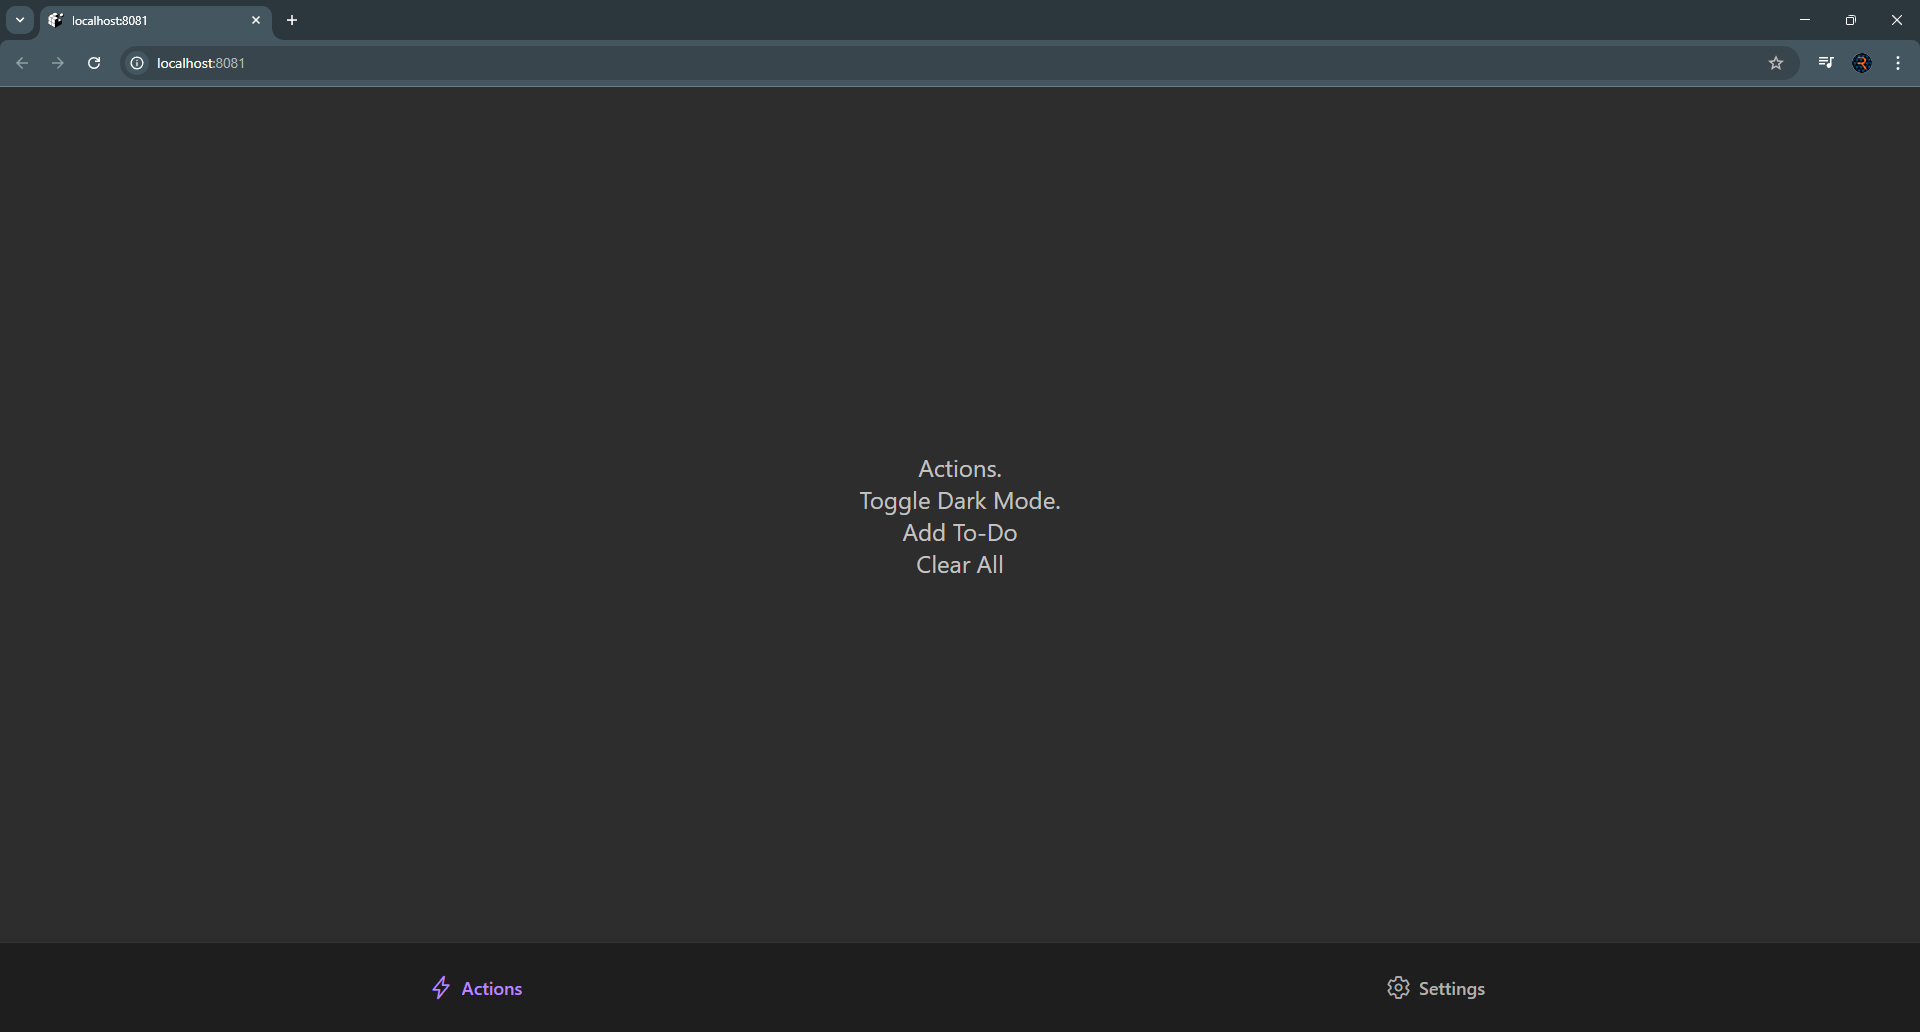
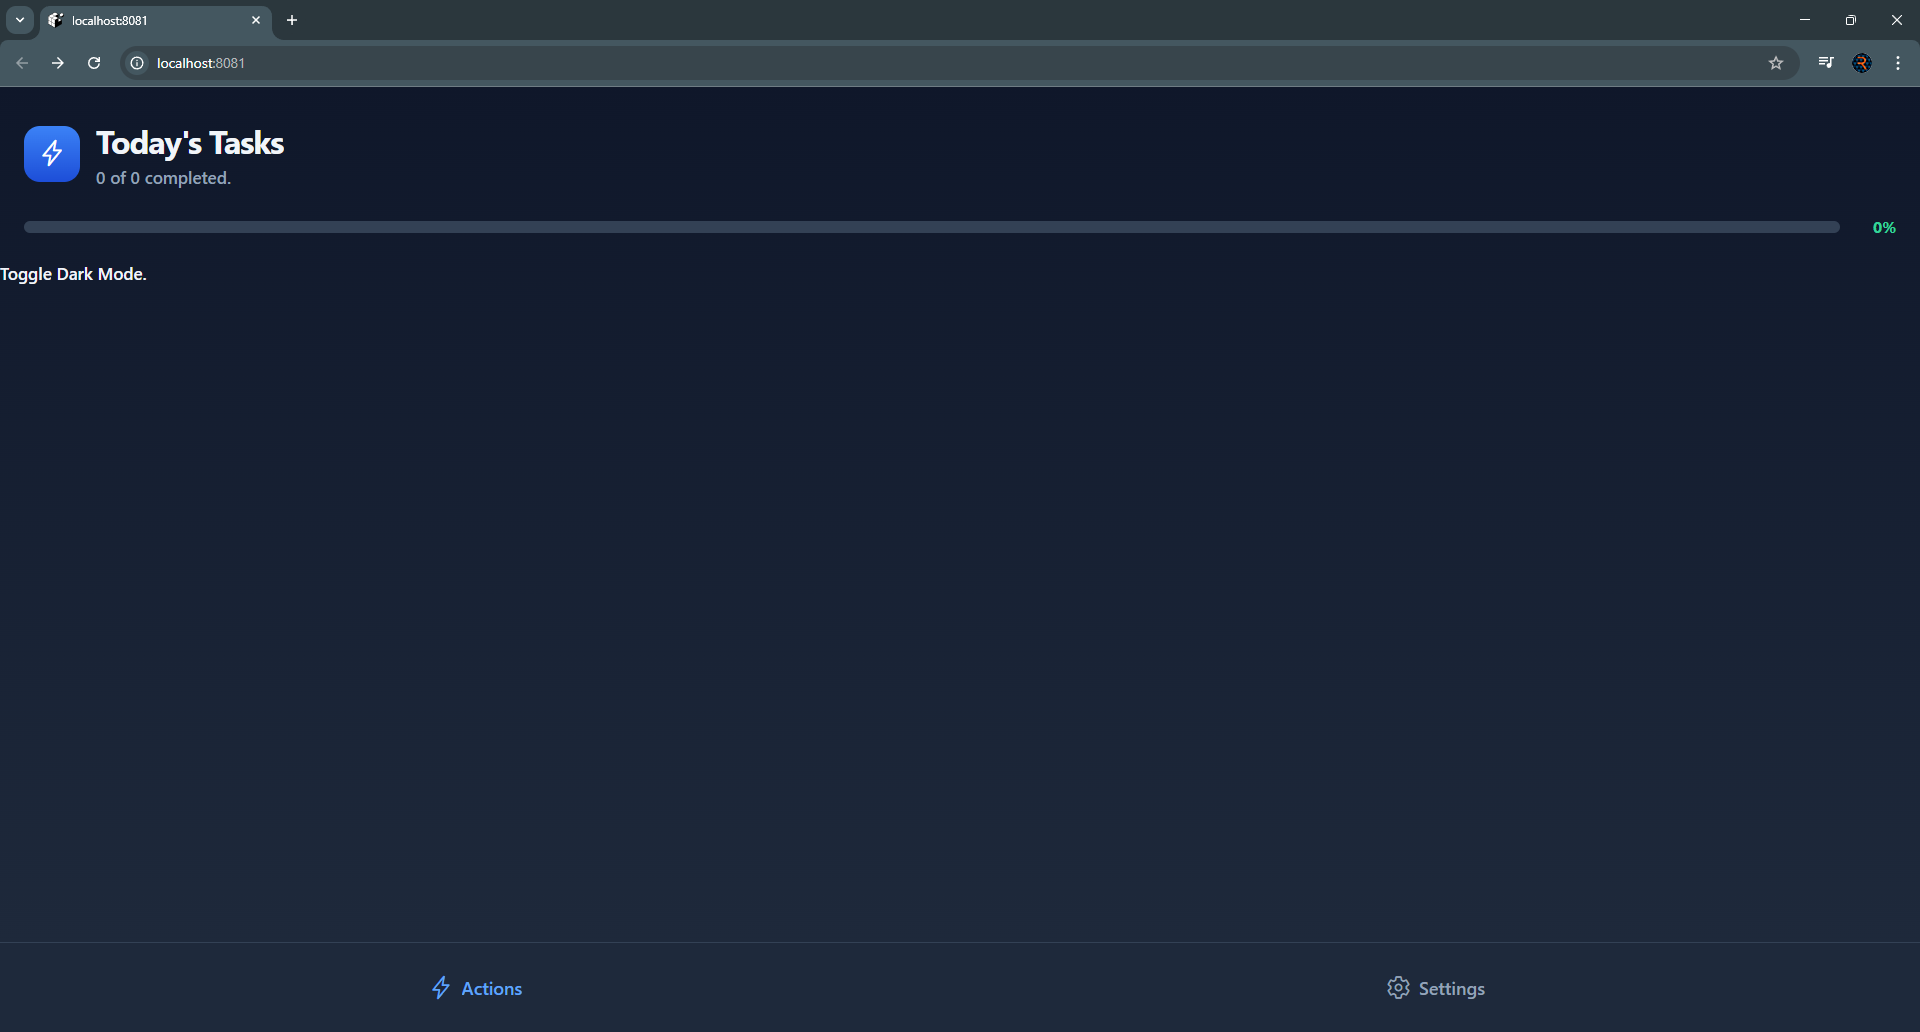
Design header

diff --git a/components/Header.tsx b/components/Header.tsx
@@ -1,0 +1,57 @@
+import { createHomeStyles } from "@/assets/styles/home.style";
+import { api } from "@/convex/_generated/api";
+import useTheme from "@/hooks/useTheme";
+import { Ionicons } from "@expo/vector-icons";
+import { useQuery } from "convex/react";
+import { LinearGradient } from "expo-linear-gradient";
+import { Text, View } from "react-native";
+
+const Header = () => {
+  const { colours } = useTheme();
+  const homeStyles = createHomeStyles(colours);
+  const todos = useQuery(api.todos.getTodos);
+  const completedCount = todos
+    ? todos.filter((todo) => todo.isComplete).length
+    : 0;
+  const totalCount = todos ? todos.length : 0;
+  const progressPercentage =
+    totalCount > 0 ? (completedCount / totalCount) * 100 : 0;
+  return (
+    <View style={homeStyles.header}>
+      <View style={homeStyles.titleContainer}>
+        <LinearGradient
+          colors={colours.gradients.primary}
+          style={homeStyles.iconContainer}
+        >
+          <Ionicons name="flash-outline" size={28} color="#ffffff" />
+        </LinearGradient>
+        <View style={homeStyles.titleTextContainer}>
+          <Text style={homeStyles.title}>Today&apos;s Tasks</Text>
+          <Text style={homeStyles.subtitle}>
+            {completedCount} of {totalCount} completed.
+          </Text>
+        </View>
+      </View>
+      {totalCount > 0 && (
+        <View style={homeStyles.progressContainer}>
+          <View style={homeStyles.progressBarContainer}>
+            <View style={homeStyles.progressBar}>
+              <LinearGradient
+                colors={colours.gradients.success}
+                style={[
+                  homeStyles.progressFill,
+                  { width: `${progressPercentage}%` },
+                ]}
+              />
+            </View>
+            <Text style={homeStyles.progressText}>
+              {Math.round(progressPercentage)}%
+            </Text>
+          </View>
+        </View>
+      )}
+    </View>
+  );
+};
+
+export default Header;

diff --git a/app/(tabs)/index.tsx b/app/(tabs)/index.tsx
@@ -1,4 +1,5 @@
 import { createHomeStyles } from "@/assets/styles/home.style";
+import Header from "@/components/Header";
 import useTheme from "@/hooks/useTheme";
 import { LinearGradient } from "expo-linear-gradient";
 import { StatusBar, Text, TouchableOpacity } from "react-native";
@@ -13,6 +14,7 @@ export default function Index() {
       style={homeStyles.container}
     >
       <StatusBar barStyle={colours.statusBarStyle} />
+      <Header />
       <SafeAreaView style={homeStyles.safeArea}>
         <Text>Actions.</Text>
         <TouchableOpacity onPress={toggleDarkMode}>
